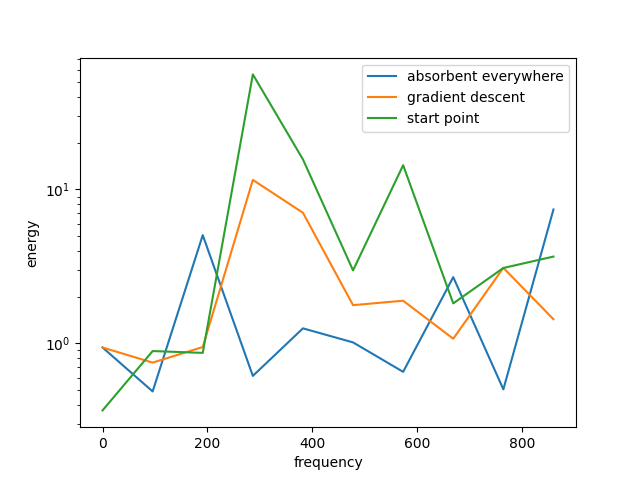
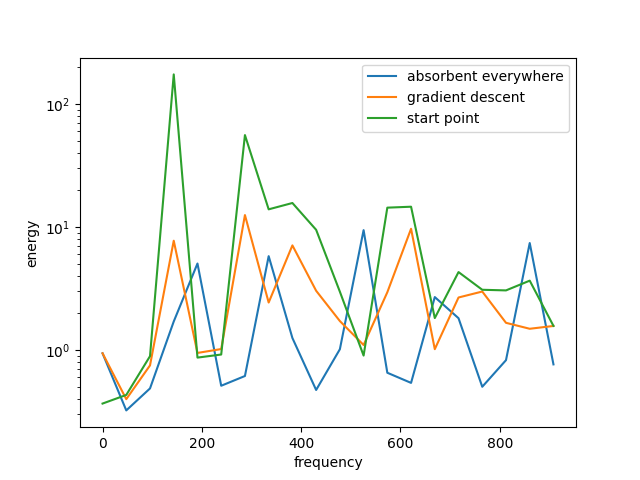
bug fix

diff --git a/demo_control_polycopie2023.py b/demo_control_polycopie2023.py
@@ -313,7 +313,7 @@ if __name__ == '__main__':
         _E.append(_e)
         
         _u_start = processing.solve_helmholtz(domain_omega, spacestep, _k, f, f_dir, f_neu, f_rob,
-                        beta_pde, alpha_pde, alpha_dir, beta_neu, beta_rob, alpha_rob)
+                        beta_pde, alpha_pde, alpha_dir, beta_neu, beta_rob, chi.copy()*_alpha)
         _e_start = compute_objective_function(domain_omega, _u_start, spacestep)
         _E_start.append(_e_start)
     
